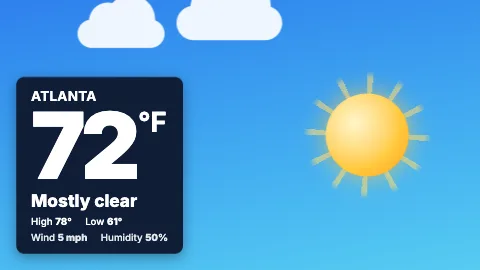
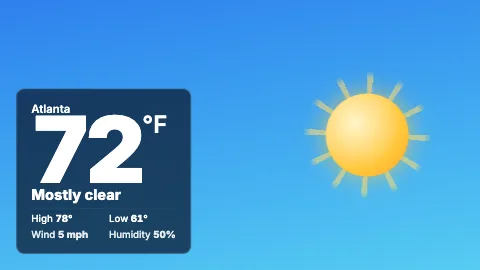
feat(weather): a lighter glass card, no edge clouds, the city in title case, the unit at cap height
The board's weather (#news-design): the glass card the owner likes stays, lighter (the kit's ground at 75% with a
hairline edge and no shadow; the board's 62% failed AA over snow by day, at dawn and on a light kit at night, and 75%
is the lightest that passes every case); the three clouds parked on the top edge and their drift go; the city in
title case at 4.2vmin; the unit's cap top on the figures' cap top (`text-box: trim-both cap alphabetic`); the
condition at 5.4vmin; and the figures in two tabular rows of two columns under a hairline. Weather 1.7.0.

Pi measurement waived by the owner (2026-11-26).

Changed region(s): [[0.0, 0.2667, 0.4062, 0.9778], [0.1562, 0.0, 0.5938, 0.2074]]

diff --git a/templates/weather/style.css b/templates/weather/style.css
@@ -365,8 +365,6 @@ body {
   border-radius: 10vmin;
   background: var(--cloud);
   opacity: 0;
-  will-change: transform;
-  animation: drift 26s linear infinite;
 }
 .cloud::before,
 .cloud::after {
@@ -387,33 +385,7 @@ body {
   right: 5vmin;
   top: -13vmin;
 }
-/* Clouds keep to the top band; the forecast card sits low and to the left. */
-/* c1 starts already on screen: entering from the edge it read as a clipped cloud by the city name. */
-.c1 {
-  top: 1vh;
-  left: -50vmin;
-  animation-delay: -12s;
-  scale: 0.85;
-}
-.c2 {
-  top: 5vh;
-  left: -50vmin;
-  animation-duration: 38s;
-  animation-delay: -14s;
-  scale: 0.7;
-}
-.c3 {
-  top: 2vh;
-  left: -50vmin;
-  animation-duration: 32s;
-  animation-delay: -24s;
-  scale: 0.55;
-}
 /* Solid colours on every part: overlapping translucent circles show their seams. */
-.partly .c1,
-.partly .c2 {
-  opacity: 0.92;
-}
 .cloudy .cloud,
 .rain .cloud,
 .storm .cloud,
@@ -422,7 +394,7 @@ body {
   opacity: 0.92;
 }
 /* When the sky is covered, a large cloud takes the sun's place, so the side opposite the forecast
-   is not left empty. Still: only rain, snow and the small clouds move. */
+   is not left empty. Still: only rain and snow move. */
 .cloud.hero {
   right: 6vw;
   top: 50%;
@@ -486,25 +458,22 @@ body {
   animation-direction: normal, alternate;
 }
 
-/* The forecast sits on an opaque card in the kit's surface colour: rain, snow and clouds pass
-   behind it and never cross the reading (a translucent shade still let them through, dimmed). */
+/* The forecast sits on glass: the kit's ground at 75% with a hairline edge and no shadow. The sky shows through; 75%
+   is the lightest at which every text still reads (AA) as painted, over every sky and condition (the tests). */
 .info {
   position: absolute;
   left: calc(var(--u) * 6);
   bottom: calc(var(--u) * 6);
-  padding: calc(var(--u) * 4) calc(var(--u) * 5.5);
-  background: var(--sf-surface, #0f1d36);
+  min-width: calc(var(--u) * 58);
+  padding: calc(var(--u) * 5) calc(var(--u) * 5.6);
+  background: color-mix(in srgb, var(--sf-bg, #0b1a33) 75%, transparent);
   border-radius: min(var(--sf-radius, 3vmin), 4vmin);
-  box-shadow: 0 1.5vmin 5vmin color-mix(in srgb, var(--sf-bg, #000) 35%, transparent);
+  box-shadow: inset 0 0 0 max(1px, 0.12vmin) color-mix(in srgb, var(--sf-text, #fff) 22%, transparent);
   will-change: transform, opacity;
   animation:
     rise-in 0.65s var(--d-in) both,
     fade-out 0.3s var(--d-out) forwards;
   animation-delay: 0s, var(--out);
-}
-/* On a light kit a shadow of its background reads as a pale halo. */
-.light-kit .info {
-  box-shadow: none;
 }
 .info > * {
   will-change: transform, opacity;
@@ -513,10 +482,8 @@ body {
     fade-out 0.3s var(--d-out) forwards;
 }
 .city {
-  font-size: calc(var(--u) * 5);
-  font-weight: 700;
-  letter-spacing: 0.02em;
-  text-transform: uppercase;
+  font-size: calc(var(--u) * 4.2);
+  font-weight: 600;
   animation-delay: 0.11s, var(--out);
 }
 .temp {
@@ -527,31 +494,41 @@ body {
   font-weight: 900;
   line-height: 0.9;
   letter-spacing: -0.05em;
+  font-variant-numeric: tabular-nums;
   animation-delay: 0.22s, var(--out);
 }
+/* The unit's cap top on the figures' cap top: both boxes start at cap height, and the row aligns their tops. */
+.temp > * {
+  text-box: trim-both cap alphabetic;
+}
 .temp .unit {
-  font-size: 0.3em;
-  margin-top: 0.22em;
+  font-size: 0.26em;
   margin-left: 0.08em;
-  font-weight: 700;
+  font-weight: 600;
   letter-spacing: 0;
 }
 .cond {
   margin-top: calc(var(--u) * 1.2);
   font-family: var(--sf-font-display, 'Inter'), sans-serif;
-  font-size: calc(var(--u) * 6.4);
+  font-size: calc(var(--u) * 5.4);
   font-weight: 800;
+  margin-bottom: calc(var(--u) * 1.6);
   animation-delay: 0.33s, var(--out);
 }
+/* Two rows of figures in two columns, tabular, under a hairline. */
 .range,
 .extra {
-  display: flex;
-  gap: calc(var(--u) * 5);
+  display: grid;
+  grid-template-columns: 1fr 1fr;
+  column-gap: calc(var(--u) * 4);
   font-size: calc(var(--u) * 3.6);
   font-weight: 500;
+  font-variant-numeric: tabular-nums;
   margin-top: calc(var(--u) * 1.6);
 }
 .range {
+  padding-top: calc(var(--u) * 1.6);
+  border-top: max(1px, 0.12vmin) solid color-mix(in srgb, var(--sf-text, #fff) 22%, transparent);
   animation-delay: 0.44s, var(--out);
 }
 .extra {
@@ -584,15 +561,6 @@ body {
   top: -24vmin;
   margin: 0;
   translate: calc(var(--rise-x) + var(--p) * (var(--set-x) - var(--rise-x))) calc(var(--horizon) - sin(var(--p) * 180deg) * (var(--horizon) - var(--zenith)));
-}
-[data-orientation='portrait'] .c1 {
-  top: 22vh;
-}
-[data-orientation='portrait'] .c2 {
-  top: 30vh;
-}
-[data-orientation='portrait'] .c3 {
-  top: 8vh;
 }
 [data-orientation='portrait'] .info {
   left: 6vw;
@@ -631,11 +599,6 @@ body {
   to {
     opacity: 0;
     transform: translateY(-0.6vmin);
-  }
-}
-@keyframes drift {
-  to {
-    transform: translateX(calc(100vw + 60vmin));
   }
 }
 @keyframes fall {

diff --git a/templates/weather/test/browser.test.ts b/templates/weather/test/browser.test.ts
@@ -149,7 +149,7 @@ describe('weather: the sun and moon follow sunrise, sunset and the screen clock 
 });
 
 // D's motion (docs/template-spec.md, Motion), read by seeking: a clear day with the sun, rain by day and snow by night.
-// Drifting clouds and falling rain or snow are the weather's own loops.
+// Falling rain or snow is the weather's own loop.
 for (const orientation of ['landscape', 'portrait'] as const)
   it(`moves as D does, ${orientation}`, async () => {
     const k = await screenFrame(t(), orientation, {});
@@ -161,7 +161,35 @@ for (const orientation of ['landscape', 'portrait'] as const)
       { code: 71, isDay: 0, temp: 30, sunrise: NOW / 1000 - 11 * 3600, sunset: NOW / 1000 - 3600 },
     ];
     for (const sky of skies)
-      for (const line of await motionContract(await k.play(sky, undefined, durationMs), durationMs, { loops: '.cloud, .fall' }))
-        found.push(`${sky.code}: ${line}`);
+      for (const line of await motionContract(await k.play(sky, undefined, durationMs), durationMs, { loops: '.fall' })) found.push(`${sky.code}: ${line}`);
     expect(found).toEqual([]);
+  });
+
+// The board's weather (#news-design): the glass card kept, lighter, with a hairline edge and no shadow; no clouds parked
+// on the top edge; the city in title case; the unit at the figures' cap height; two rows of tabular figures.
+for (const orientation of ['landscape', 'portrait'] as const)
+  it(`keeps a lighter glass card with no edge clouds, the city in title case and the unit at cap height, ${orientation}`, async () => {
+    const k = await screenFrame(t(), orientation, {});
+    const f = await k.play({ code: 2, isDay: 1, sunrise: NOW / 1000 - 3600, sunset: NOW / 1000 + 7200 });
+    const seen = await f.evaluate(() => {
+      for (const a of document.getAnimations()) a.currentTime = 3000;
+      const style = (sel: string) => getComputedStyle(document.querySelector(sel)!);
+      const top = (sel: string) => Math.round(document.querySelector(sel)!.getBoundingClientRect().top);
+      return {
+        clouds: document.querySelectorAll('.cloud:not(.hero)').length,
+        glass:
+          style('.info').backgroundColor.includes('/') ||
+          style('.info').backgroundColor.startsWith('rgba') ||
+          style('.info').backgroundColor.startsWith('color('),
+        edge: style('.info').boxShadow.includes('inset'),
+        city: style('.city').textTransform,
+        unit: top('#temp') === top('.temp .unit'),
+        rows: [
+          style('.range').gridTemplateColumns.split(' ').length,
+          style('.extra').gridTemplateColumns.split(' ').length,
+          style('.range').fontVariantNumeric,
+        ],
+      };
+    });
+    expect(seen).toEqual({ clouds: 0, glass: true, edge: true, city: 'none', unit: true, rows: [2, 2, 'tabular-nums'] });
   });

diff --git a/templates/weather/index.html b/templates/weather/index.html
@@ -13,7 +13,6 @@
   <div class="orb"><div class="rays"></div><div class="disc"></div><div class="shade"></div></div>
   <div class="cloud hero"></div>
   <div id="fx"></div>
-  <div class="cloud c1"></div><div class="cloud c2"></div><div class="cloud c3"></div>
   <div class="info">
     <p class="city" data-sf="city">Atlanta</p>
     <div class="temp"><span id="temp">72</span><span class="unit" data-sf="unit">°F</span></div>

diff --git a/packages/template-test/README.md b/packages/template-test/README.md
@@ -34,7 +34,7 @@ Every template: the update lifecycle, above, and D's motion in both orientations
 - **news** (2.1, design D, #476): in every look and orientation, at the longest copy and in every toggle setting, no text runs off its story or the screen, is painted over or meets the photo; every photo shape is drawn whole, at most 1.25 times its size, beside the text; the headline hangs from one place whatever the photo; headlines step down and are cut on a word to their lines, every line filled; no text box clips a descender; the spot's credit names the source; every text reads as painted with no kit, the demo kit and a light kit, and Poster's age and bar share one accent; the strip numbers the stories and the bar moves under each as it comes on; each part's intro and outro on design D's timeline, nothing overshooting; the time and each story's age from `init`'s clock; only the first photo decoded before ready; with reduced motion nothing animates.
 - **photo-promo**: the price tag's text on its fill and the eyebrow on its backdrop under every brand kit, over a white, a black, a mid-grey and a black-and-white striped photo (broad, and 1 px wide at the screen's scale) and over photos with a block of the other colour under the eyebrow, each with its sample and without; the eyebrow is the same with the photo's sample as without, and with a sample that does not decode.
 - **room-status** (#199), at 1920x1080 from `init`'s clock: free between meetings, busy (the organiser named only when the spot asks), in back-to-back meetings, after the last meeting, with no events, with only tomorrow booked, with an all-day event, and with one while the schedule is off, each saying free or busy, for how long and what then; in New York, across the clocks going back and forward and across midnight; in every look and orientation, with every toggle on, each off alone and all off, on a free, a busy, a double-booked and an empty day at the longest copy, no text runs off the screen, past its clamp or out of a box that clips it, no two texts overlap (the now line and Pop's pin counted as text), nothing is painted over a text, and the schedule is never drawn empty; every text reads as painted under no kit, the demo kit and a light kit; each toggle is marked and removes its part, and the type steps up without the schedule; the clock in 12 and 24 hours; every element's intro and outro end with the spot, only `transform` and `opacity` move, within the cap; with reduced motion nothing animates.
-- **weather** (#70): the sun low at sunrise, high at midday and low at sunset, with dawn and dusk skies around them; the moon across the night to the next sunrise; a spot left playing across sunset goes from day to dusk to night with no new data; without sunrise and sunset, `isDay` as before, whatever the clock says; every text in the forecast card reads (4.5:1, 3:1 large) as painted, at dawn, day, dusk and night, in every condition, with no kit, the demo kit and a light kit.
+- **weather** (#70): the sun low at sunrise, high at midday and low at sunset, with dawn and dusk skies around them; the moon across the night to the next sunrise; a spot left playing across sunset goes from day to dusk to night with no new data; without sunrise and sunset, `isDay` as before, whatever the clock says; every text in the forecast card reads (4.5:1, 3:1 large) as painted, at dawn, day, dusk and night, in every condition, with no kit, the demo kit and a light kit; the card is glass with a hairline edge, with no clouds on the top edge, the city in title case, the unit at the figures' cap height and two rows of tabular figures.
 - **the look kit** (`packages/template-looks`, #190), its test template at 1920x1080: every text reads as painted in each look, with no kit, the demo kit and a light kit, with the photo and body on and off, in landscape and portrait; a look loads only its own faces, all loaded by `ready`; each look's accent is kept where it reads and gives way where it does not; each toggle is marked on the root, an element switched off is removed, the copy widens and the type steps up by the look's step, and no clamped text overflows; every element has an intro and an outro ending with the spot, and only `transform` and `opacity` move; every look keeps D's motion (`motionContract`) in both orientations, and `motionContract` passes a centred element, a monotone multi-step entrance and a move on the standard curve, and linear progress across the screen or a half turn; it names a clip-path or mask reveal, an overshoot, a rotation, a transition off its curve, an exit 1 ms early, an alternating wobble, a far slide in at full opacity or from nearly none, a linear first step, keyframes a `::before` names that do not exist, a linear `from` on a two-keyframe entrance, progress along two axes that grows and runs back and forth, a 10 Hz flash, a far slide after 2 s, a non-covering element swelling to 1.1, and a part leaving after its story hides; a full turn of a ring passes; the photo drifts in landscape and holds still in portrait; with reduced motion nothing animates and the crawl is one line cut with an ellipsis; the crawl holds its text twice and slides by one copy at the look's speed.
 
 ## Adding a template
